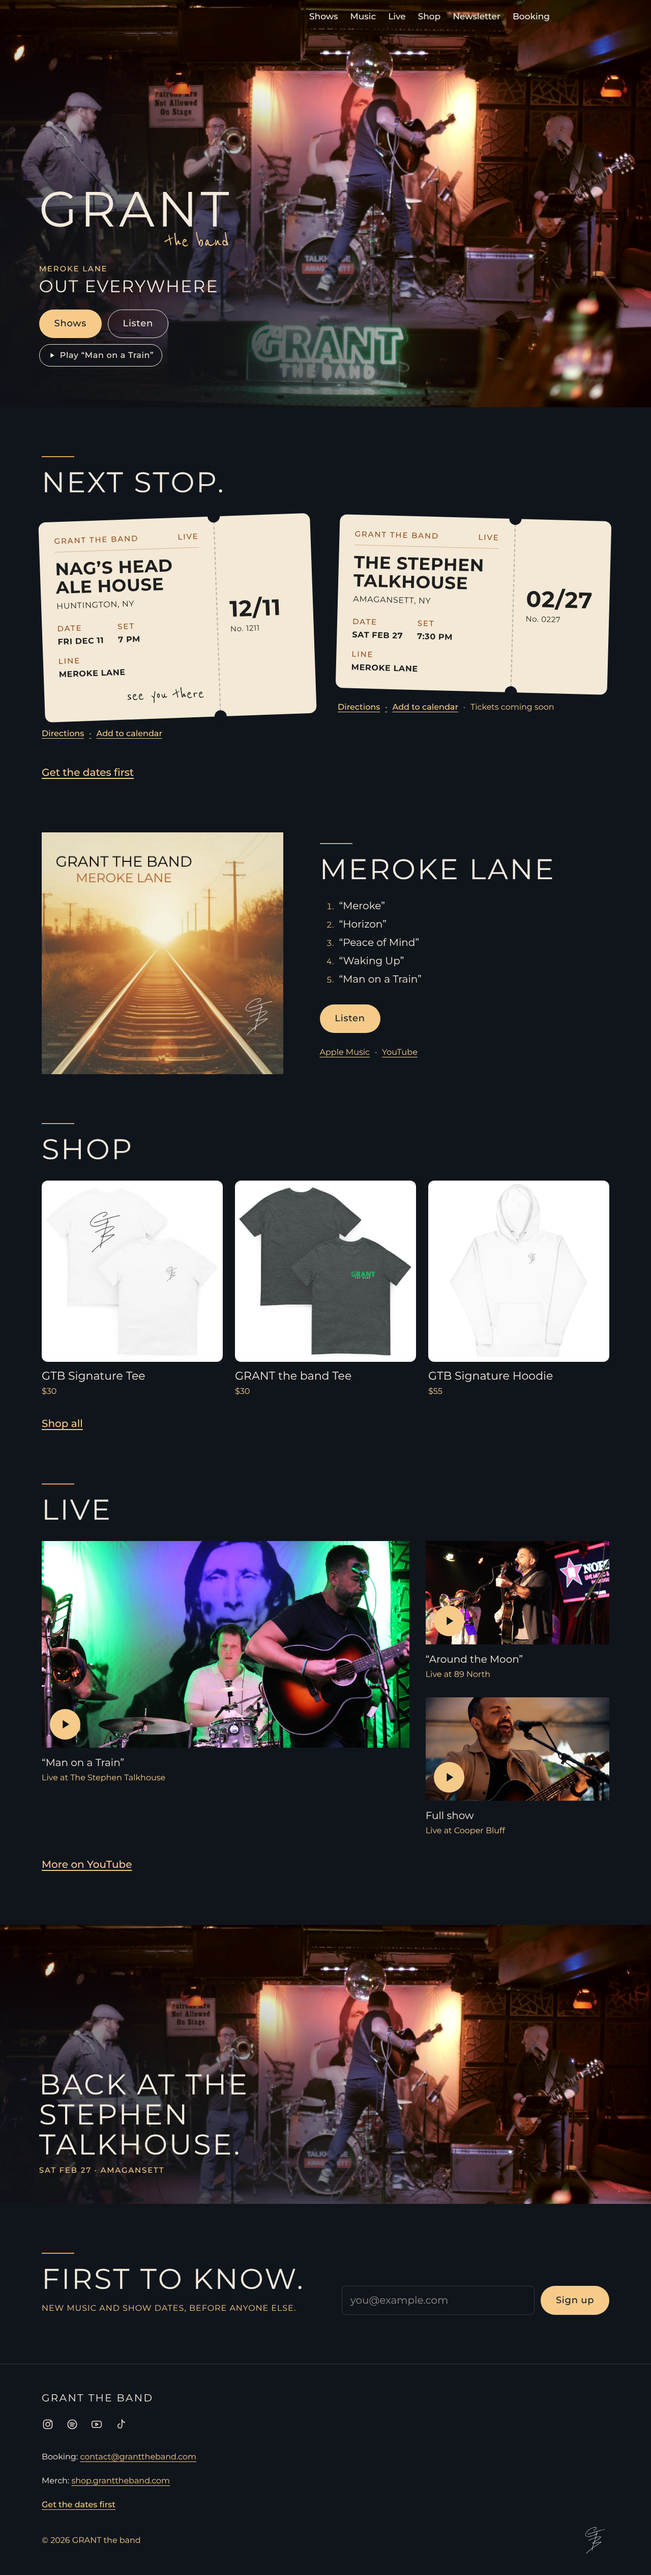
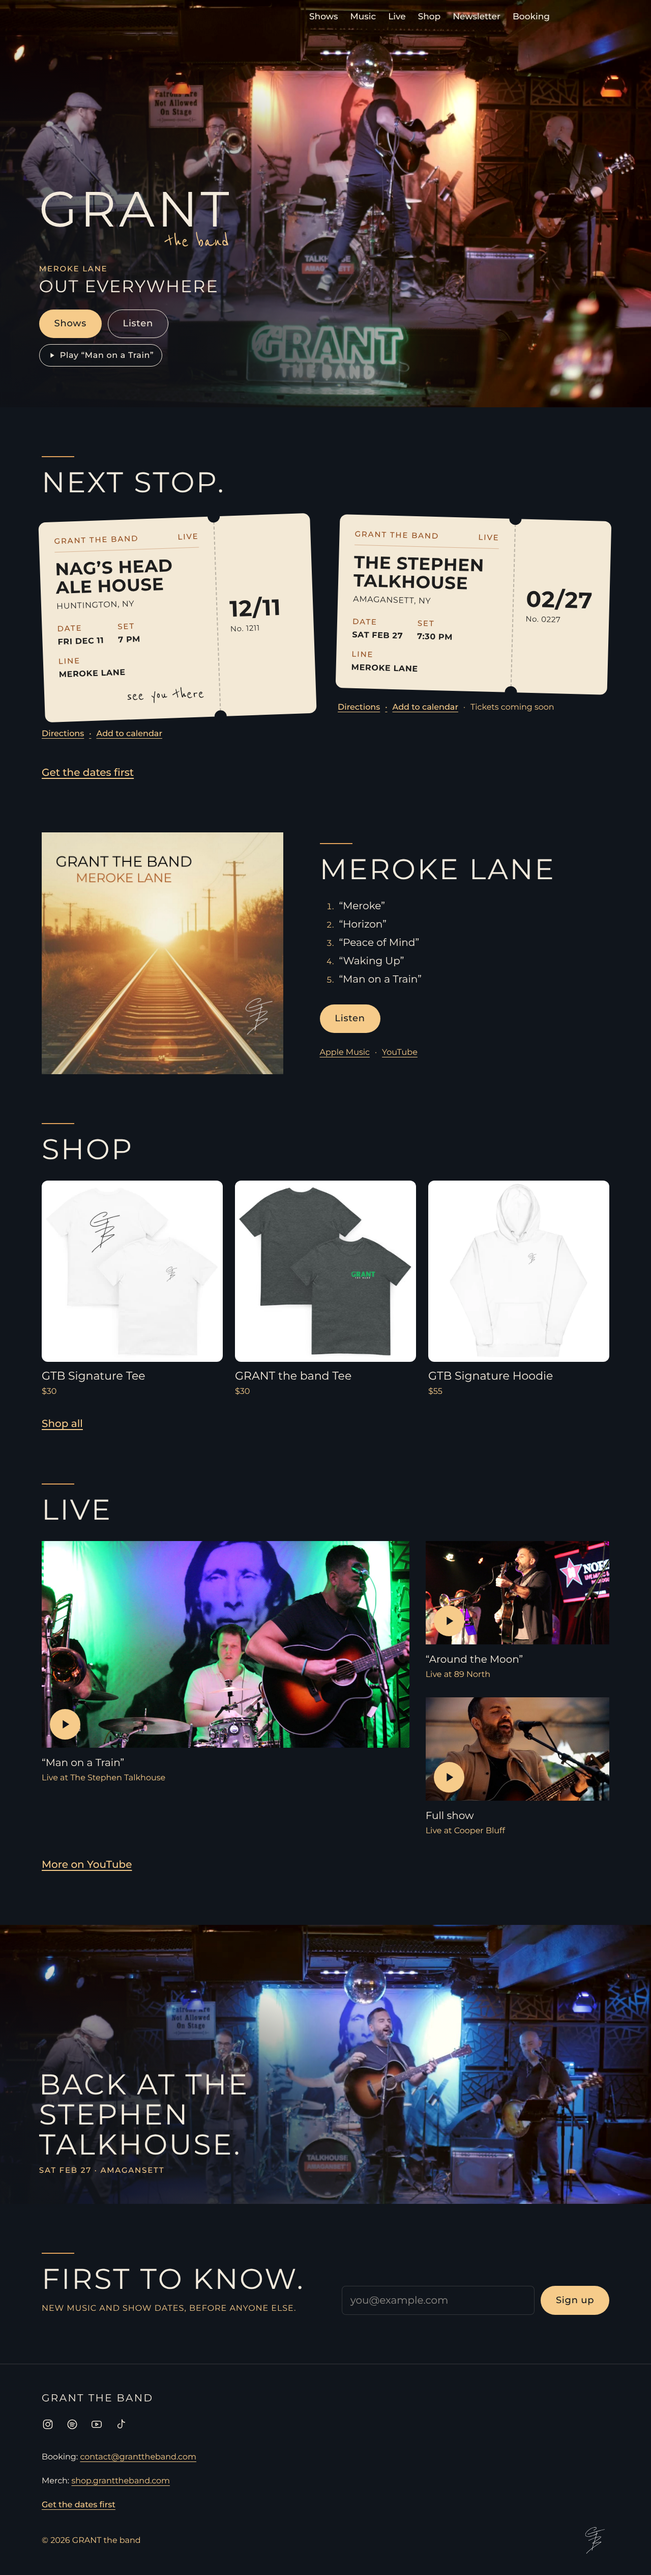
PR #19 tweaks: own Talkhouse frames for the strip, 40px ticket peek, solid pinned header
- Feature strip: new frames from the hero loop (0.4s, the wide room cut in
  blue light; phone: its vertical cut trimmed to Noah and the drummer), not
  the hero poster. Desktop scrim a touch darker for this brighter frame.
- Phone swipe row: tickets are 100vw - 72px, so 40px of the next shows.
- Pinned header: solid #10151C.

Claude-Session: https://claude.ai/code/session_01W6jjmem6fid2ThtCrqmyVk

Changed region(s): [[0.0625, 0.7497, 1.0, 0.8747]]

diff --git a/src/data/site.ts b/src/data/site.ts
@@ -83,6 +83,22 @@ export const photos = {
     alt: 'GRANT the band singer Noah mid-jump with his guitar at the Stephen Talkhouse',
     credit: null,
   },
+  // The home Talkhouse strip: the wide "room" cut of the hero loop (0.4s, blue light) and its
+  // vertical cut, trimmed to Noah and the drummer. Frames from the graded loop: never re-grade.
+  talkhouseRoom: {
+    src: '/images/talkhouse-room.jpg',
+    width: 1920,
+    height: 1080,
+    alt: 'GRANT the band on stage at the Stephen Talkhouse in blue light, the full band and the room',
+    credit: null,
+  },
+  talkhouseRoomPhone: {
+    src: '/images/talkhouse-room-phone.jpg',
+    width: 880,
+    height: 1100,
+    alt: 'GRANT the band singer Noah at the mic with his guitar at the Stephen Talkhouse, the drummer behind him',
+    credit: null,
+  },
   talkhouseStage: {
     src: '/images/talkhouse-stage.jpg',
     small: { src: '/images/sized/talkhouse-stage-1200.jpg', width: 1200 },
@@ -152,7 +168,7 @@ export const hero = {
 export const photoBand: Photo | null = photos.northFullBand;
 
 // Every photo the site renders, for footer credits.
-const photosInUse: (Photo | null)[] = [hero.posterDesktop, hero.posterPhone, photoBand, photos.cover];
+const photosInUse: (Photo | null)[] = [hero.posterDesktop, hero.posterPhone, photoBand, photos.cover, photos.talkhouseRoom, photos.talkhouseRoomPhone];
 
 export const ep = {
   title: 'Meroke Lane',

diff --git a/CLAUDE.md b/CLAUDE.md
@@ -137,7 +137,7 @@ Lives only in `src/components/Wordmark.astro`; set `wordmarkSvg` in `src/data/si
 
 Shows (`/shows`), Music (`/#music`), Live (`/#live`; the old `#video` anchor still lands there), Shop (`shopUrl` in `site.ts`, https://shop.granttheband.com, the Shopify store), Newsletter (the signup on the current page, else `/#newsletter`), Booking (`/book`).
 
-- One fixed header (`Header.astro`). On home it starts transparent over the hero with no wordmark (the hero logo is the headline) and pins once the hero has scrolled away; inner pages are pinned from the start. Pinned: night at 92% with a 1px hairline rule (drawn inside), "GRANT the band" wordmark left (links home), nav right (1024px+), a compact gold "Shows" pill far right (44px, the bar is too slim for the 56px page button). 64px tall from 900px, 56px below. It slides away on scroll down (after ~120px) and back on scroll up; with reduced motion it never hides and nothing animates.
+- One fixed header (`Header.astro`). On home it starts transparent over the hero with no wordmark (the hero logo is the headline) and pins once the hero has scrolled away; inner pages are pinned from the start. Pinned: solid night (#10151C, nothing shows through) with a 1px hairline rule (drawn inside), "GRANT the band" wordmark left (links home), nav right (1024px+), a compact gold "Shows" pill far right (44px, the bar is too slim for the 56px page button). 64px tall from 900px, 56px below. It slides away on scroll down (after ~120px) and back on scroll up; with reduced motion it never hides and nothing animates.
 - Under 1024px: "Menu" opens the set list: a full-screen night overlay with the GTB monogram (links home) and "Close" on top, "tonight’s set" in Reenie Beanie, the six pages as a numbered set list (01 Shows / 02 Music / 03 Live / 04 Shop / 05 Newsletter / 06 Booking, display caps 30px, 60px rows), then "Next stop: <Fri Dec 11> · <venue>" linking to that ticket on /shows, then the social icons. Focus stays inside, Esc closes and returns focus to Menu, the page behind is inert and doesn't scroll. Without JS the nav wraps under the bar.
 
 ## Back to top (all pages)
@@ -160,14 +160,14 @@ Use this copy as written. Typographic apostrophes and quotes. Never use em dashe
    - The song button renders only once `hero-song.mp3` exists. Until then previews show a placeholder and production shows nothing. No video swap: the hero never replaces the loop.
    - Short phones (max-height 720px) get tighter vertical spacing in the hero text so the extra row doesn't push the wordmark into the jump.
    - No tagline, no location line, no sub paragraph.
-2. Next stop (only when there are upcoming dates): title "NEXT STOP.", every upcoming show as a full ticket, equal billing (and each one's MusicEvent JSON-LD). 900px+: two per row, equal size (900 to 1099px use a narrower stub and a 26px venue so two fit). Under 900px: a sideways swipe row (CSS scroll-snap) labelled "Upcoming shows", each ticket 86% of the screen (max 540px) so the next peeks in, tickets focusable, with position dots under it (44px targets, "Show 1 of 2", the current one gold). One show: a single ticket, no swipe, no dots. Each ticket keeps its Directions / Add to calendar / Tickets coming soon row. Then "Get the dates first" to `#newsletter` (smooth scroll). Each ticket on /shows has the id `<date>-<venue>` (`/shows#2027-02-27-the-stephen-talkhouse`).
+2. Next stop (only when there are upcoming dates): title "NEXT STOP.", every upcoming show as a full ticket, equal billing (and each one's MusicEvent JSON-LD). 900px+: two per row, equal size (900 to 1099px use a narrower stub and a 26px venue so two fit). Under 900px: a sideways swipe row (CSS scroll-snap) labelled "Upcoming shows", each ticket about 80% of the screen (`100vw - 72px`, max 540px) so 40px of the next shows, tickets focusable, with position dots under it (44px targets, "Show 1 of 2", the current one gold). One show: a single ticket, no swipe, no dots. Each ticket keeps its Directions / Add to calendar / Tickets coming soon row. Then "Get the dates first" to `#newsletter` (smooth scroll). Each ticket on /shows has the id `<date>-<venue>` (`/shows#2027-02-27-the-stephen-talkhouse`).
 3. Music (`#music`): cover art, title "MEROKE LANE" (heading only, no gold line), the Spotify player for the EP (`links.merokeLaneEmbed`, dark theme, 352px tall, full width of the text column, title "Listen to Meroke Lane on Spotify", no autoplay), one gold primary "Listen" button (the Spotify EP), then one row of small text links: Apple Music · YouTube. Text block vertically centered against the cover art.
    - The player is injected only when the section is within ~400px of the viewport (IntersectionObserver), with `loading="lazy"`, after a no-cors check that Spotify is reachable. Its 352px is reserved so nothing shifts. Hero and first paint load nothing from Spotify.
    - Fallback (JS off, Spotify blocked or not loaded in 10s): the numbered tracklist in Spotify order (Spotify is the source of truth): 1. “Meroke” 2. “Horizon” 3. “Peace of Mind” 4. “Waking Up” 5. “Man on a Train”.
    - Home only. Never on /now (keep it instant).
 4. Shop (`#shop`), after Music: title "SHOP" (amber rule), three products from the store, in this order: GTB Signature Tee, GRANT the band Tee, GTB Signature Hoodie (`shopFeatured` in `site.ts`, title + store handle). Each card: square image (lazy, from Shopify's CDN, srcset), name, price (gold), linking to its product page. Then "Shop all" to the store. Read at build time by `src/lib/shop.ts`: `/products.json` first, then each product's `/products/<handle>.js` (the store-wide feed answers 404 on this store). Anything that fails is left out; nothing back means no section at all. `SHOP_FEED_URL=https://shop.invalid npm run build:production` checks that. Phones: a sideways row (62% cards); 720px+: three across.
 5. Live (`#live`): title "LIVE". Three clip cards (YouTube IDs in `site.ts`, from ASSETS.md), song in quotes plus a gold line: “Man on a Train” / Live at The Stephen Talkhouse; “Around the Moon” / Live at 89 North; Full show (no quotes, not a song) / Live at Cooper Bluff. Link "More on YouTube".
-6. Between Live and the signup, while a Stephen Talkhouse show is upcoming (`FeatureStrip.astro`): the Talkhouse feature strip, full bleed, `hero-desktop-poster.jpg` at 21:9 (phones: `hero-phone-poster.jpg` at 4:5), both cropped from the top so the neon sign stays out, under the night scrim from the bottom-left: "Back at The Stephen Talkhouse." (display, section-title size) and "Sat Feb 27 · Amagansett" (gold label). The whole strip links to that ticket on /shows. After the show (the next build), it reverts to the photo band: the 89 North full band, no text.
+6. Between Live and the signup, while a Stephen Talkhouse show is upcoming (`FeatureStrip.astro`): the Talkhouse feature strip, full bleed, its own frames from the hero loop (never the hero poster again): `talkhouse-room.jpg`, the wide room cut in blue light, at 21:9 from the top so the neon sign stays out (phones: `talkhouse-room-phone.jpg`, 4:5, Noah and the drummer), under the night scrim from the bottom-left: "Back at The Stephen Talkhouse." (display, section-title size) and "Sat Feb 27 · Amagansett" (gold label). The whole strip links to that ticket on /shows. After the show (the next build), it reverts to the photo band: the 89 North full band, no text.
 7. Newsletter (`#newsletter`): title "FIRST TO KNOW.", gold line "New music and show dates, before anyone else." Email field + "Sign up". Same copy everywhere the signup appears (except the /shows empty state's inline "Get them first.").
 
 Section titles are statements, not category words. Nav labels stay Shows, Music, Live, Shop, Newsletter, Booking.
@@ -256,7 +256,7 @@ On `CONTEXT === "production"` nothing unfinished renders: no [BRACKETED] text, n
 - Never self-deprecating, never apologetic, never defensive. No jokes at the band's expense.
 - No em dashes. No try-hard or corporate copy. No begging CTAs.
 - Never promote Encore or any app. No family, day job or personal details.
-- Talkhouse promo (Feb 27): no close-ups of the Feb 2026 Talkhouse trombonist or lead guitarist. The wide hero still shows them small and full length; the phone still is Noah and the drummer only.
+- Talkhouse promo (Feb 27): no close-ups of the Feb 2026 Talkhouse trombonist or lead guitarist. The strip's wide frame shows them small and full length; its phone frame leaves them out.
 - Never fake live footage. No AI-generated visuals on the site. One exception, approved by Noah: the released Meroke Lane EP cover, which Canva's Content Credentials list as made with Canva AI. It is the official release artwork, used unaltered with its credentials intact. Nothing else AI-made.
 
 ## Phases

diff --git a/public/images/ASSETS.md b/public/images/ASSETS.md
@@ -32,6 +32,8 @@ Video credit: MISSING (who shot and edited the Talkhouse multi-cam).
 |---|---|---|---|---|
 | `hero-desktop-poster.jpg` | 1920x1080 | 272 KB | see video | GRANT the band on stage at the Stephen Talkhouse, Noah mid-jump with his guitar (the jump at its peak, 9:01.74) |
 | `hero-phone-poster.jpg` | 1080x1920 | 226 KB | see video | GRANT singer Noah mid-jump with his guitar at the Stephen Talkhouse (vertical crop, same frame) |
+| `talkhouse-room.jpg` | 1920x1080 | 262 KB | see video | GRANT the band on stage at the Stephen Talkhouse in blue light, the full band and the room (frame at 0.4s of `hero-desktop.mp4`, the wide cut; home Talkhouse strip, shown at 21:9 from the top) |
+| `talkhouse-room-phone.jpg` | 880x1100 | 115 KB | see video | GRANT the band singer Noah at the mic with his guitar at the Stephen Talkhouse, the drummer behind him (frame at 0.4s of `hero-phone.mp4`, cut to 4:5 at x200-1080, y400-1500 to leave the trombonist out; home Talkhouse strip on phones) |
 | `talkhouse-stage.jpg` | 2400x1600 | 538 KB | MISSING | GRANT the band on stage at the Stephen Talkhouse under green light |
 | `talkhouse-noah.jpg` | 1600x2400 (portrait) | 521 KB | MISSING | GRANT singer Noah at the mic with an acoustic guitar, drummer behind |
 | `talkhouse-drums.jpg` | 2400x1600 | 539 KB | MISSING | GRANT's drummer laughing behind the kit in purple light |
